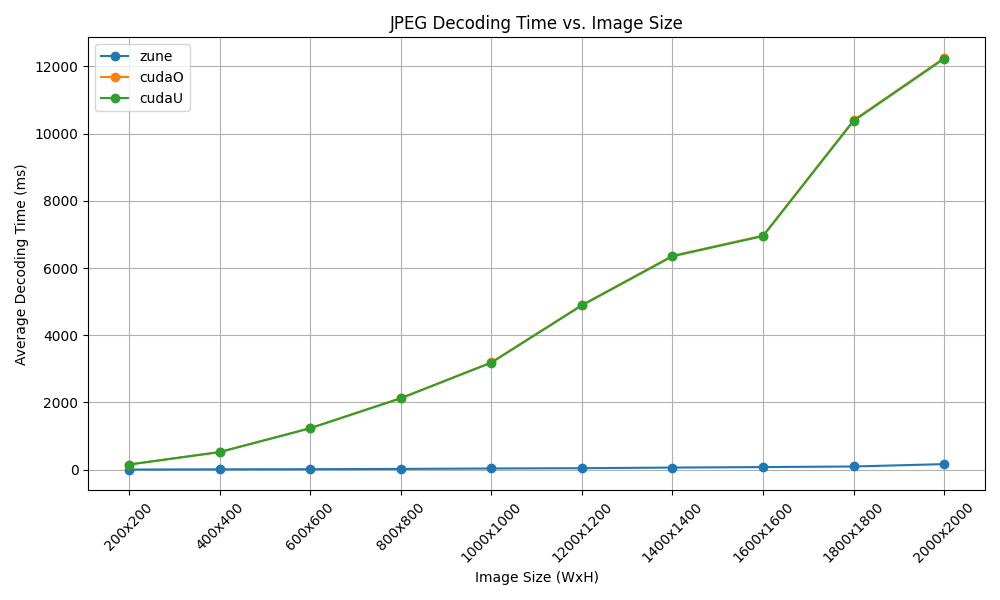
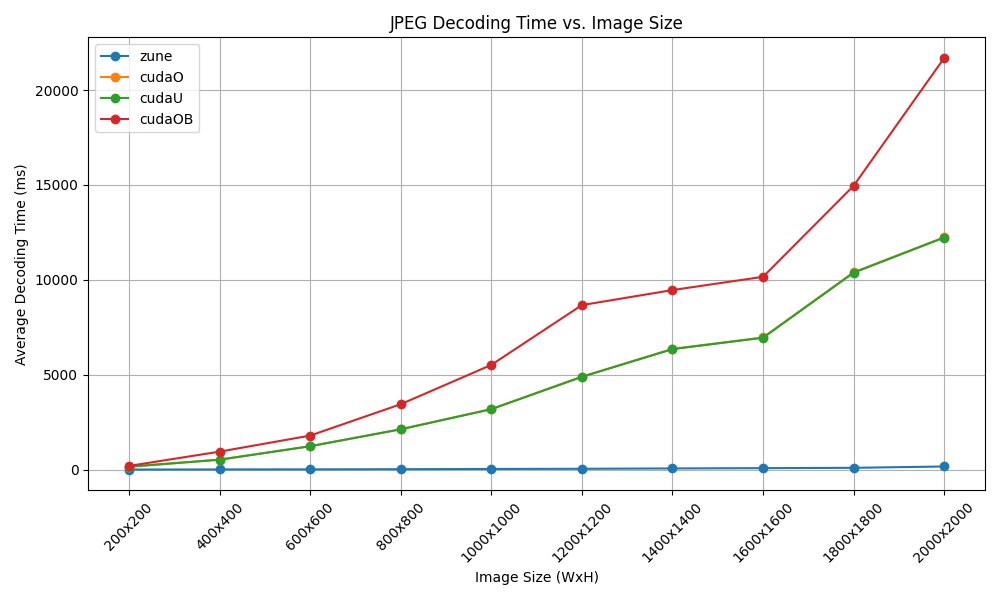
debs: cudaOB benchmarked

diff --git a/plots/plot_benchmark.py b/plots/plot_benchmark.py
@@ -3,7 +3,7 @@ import json
 import matplotlib.pyplot as plt
 from collections import defaultdict
 
-versions = ['zune', 'cudaO', 'cudaU']
+versions = ['zune', 'cudaO', 'cudaU', 'cudaOB']
 
 sizes = [200, 400, 600, 800, 1000, 1200, 1400, 1600, 1800, 2000]
 
